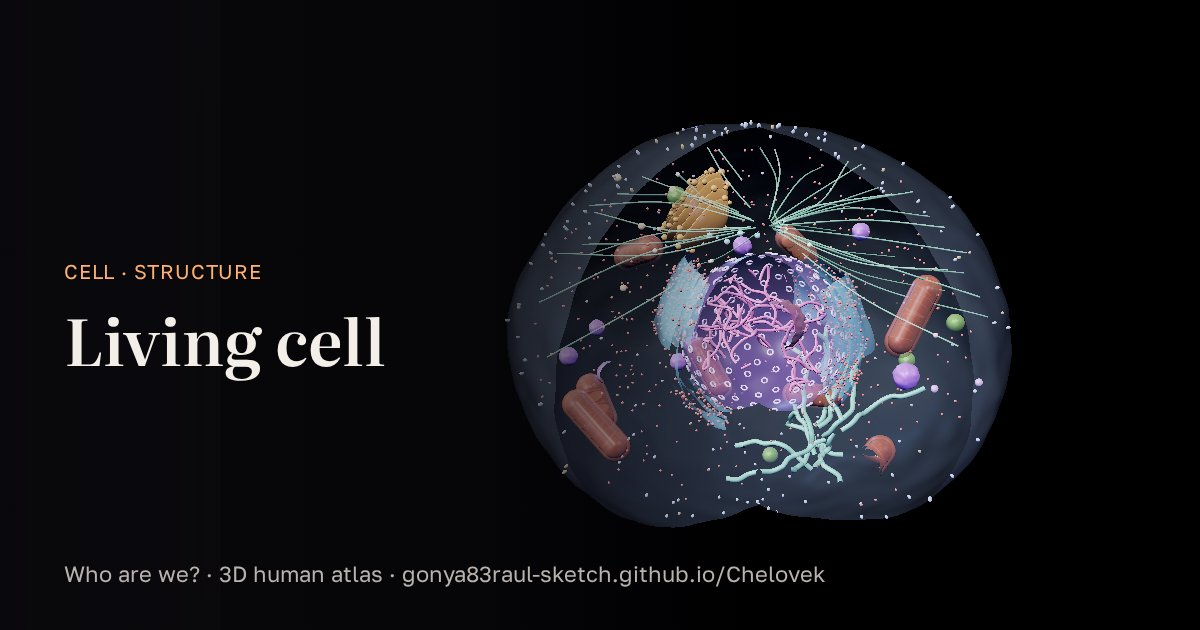
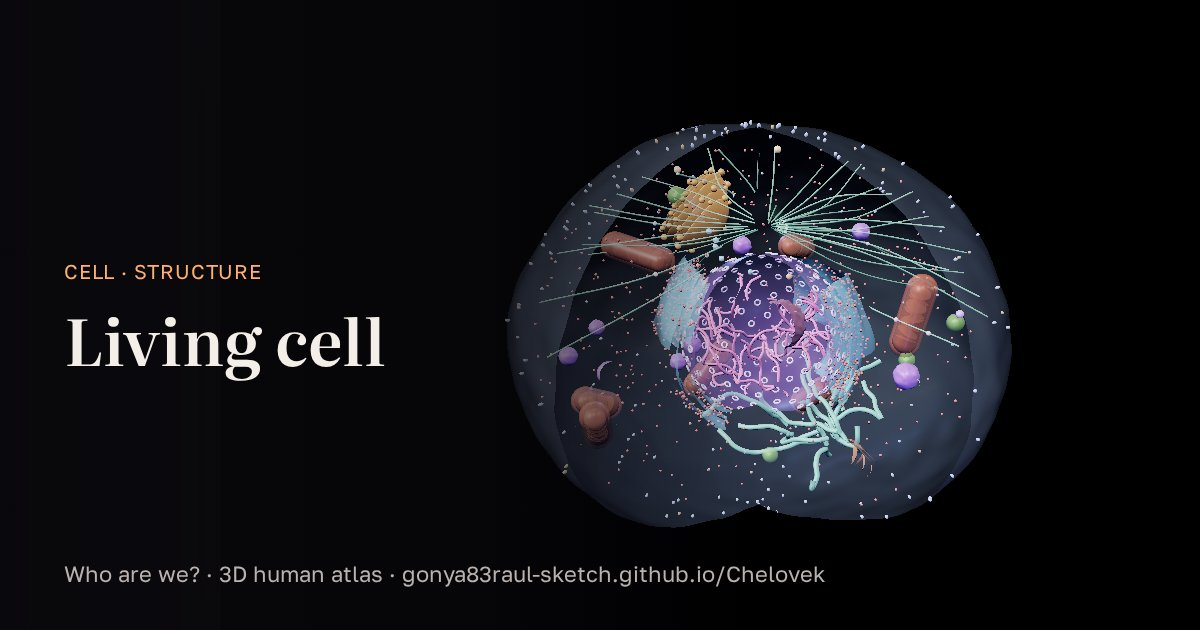
app79: итоговая проверка — cell «Ядро», planes «Верхний ↔ нижний» (тел.); превью

Changed region(s): [[0.4625, 0.2413, 0.8325, 0.7841], [0.4625, 0.6032, 0.5242, 0.7238], [0.5858, 0.754, 0.6167, 0.7841]]

diff --git a/tools/build.py b/tools/build.py
@@ -75,7 +75,7 @@ ledes = [f'{t}: {mm["lede"]}' for t, mm in META.items() if 'lede' in mm]
 L0 = 'const TOPIC_LEDE = {}; // заполняет tools/build.py'
 assert page.count(L0) == 1
 page = page.replace(L0, 'const TOPIC_LEDE = { ' + ', '.join(ledes) + ' };', 1)
-APP = 'app78'   # меняется при каждой публикации со старой структурой кэша
+APP = 'app79'   # меняется при каждой публикации со старой структурой кэша
 # модели: сайт грузит models/<имя>.bin; если есть только старые .txt — перепаковать, без .bin сборку не выпускать
 MODELS = ['skeleton', 'muscles', 'vision', 'digest', 'repro']
 MDIR = os.path.join(ROOT, 'out', 'models')
